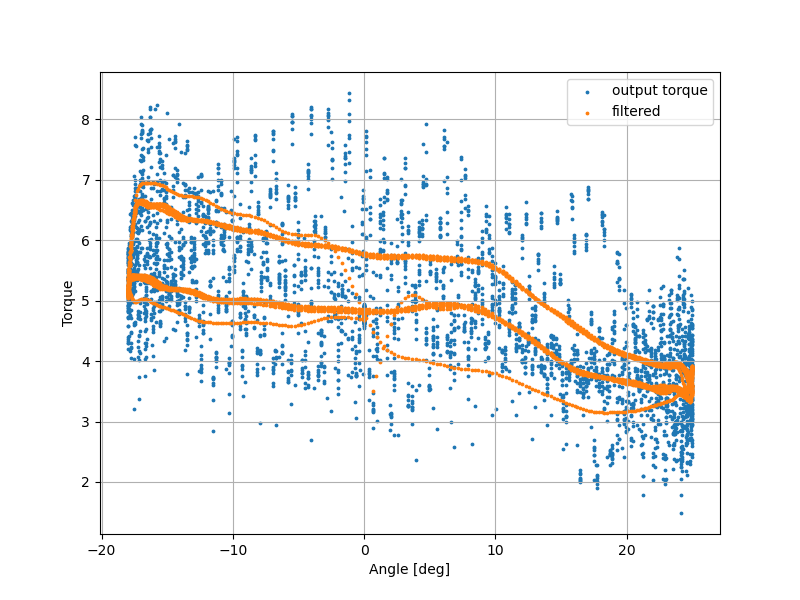
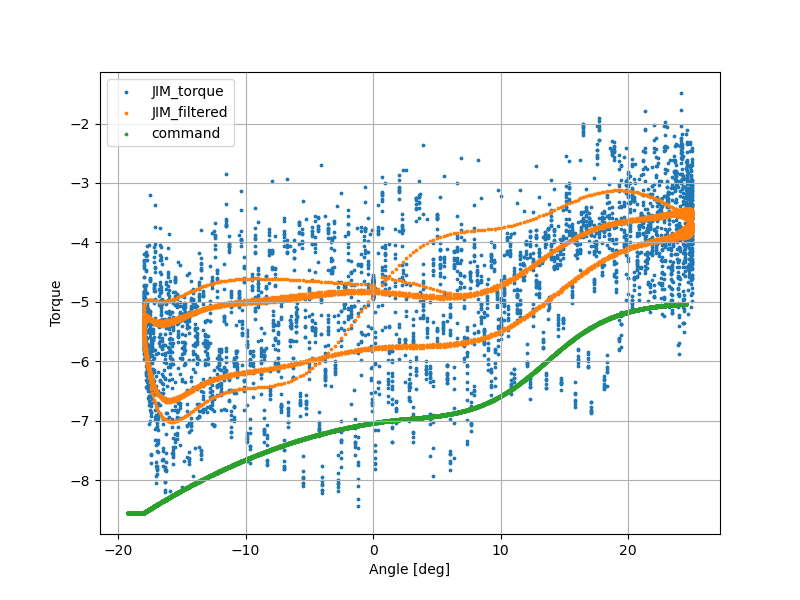
plotter update

diff --git a/plotter.py b/plotter.py
@@ -4,7 +4,9 @@ import scipy.io
 import pandas as pd
 import processor as proc
 import numpy as np
+import matplotlib as mpl
 import matplotlib.pyplot as plt
+mpl.rcParams['savefig.directory'] = 'I:\\My Drive\\Locomotor\\ExoBoot\\plots'
 
 def load_encoder_csv(file_path, adjust = False):
     with open(file_path, mode='r') as file:
@@ -35,15 +37,15 @@ def load_encoder_csv(file_path, adjust = False):
             return time, ankle_angle
 
 
-def load_mat(file_path, calibration_path=None, adjust=False, lpf=False, cutoff=5, fs=100, order=10):
+def load_mat(file_path, calibration_path=None, adjust=False, lpf=False, cutoff=2, fs=100, order=5):
     mat_data = scipy.io.loadmat(file_path)
     JIM_time = mat_data['output'][:,0]
     JIM_angle = - np.degrees(mat_data['output'][:,1])   # Fix JIM angle data
-    JIM_torque = mat_data['output'][:,2]
+    JIM_torque = - mat_data['output'][:,2]  # Fix JIM torque data
 
     if calibration_path:
         calibration_data = scipy.io.loadmat(calibration_path)
-        calibration_torque = calibration_data['output'][:,2]
+        calibration_torque = - calibration_data['output'][:,2]  
         if len(calibration_torque) == len(JIM_torque):
             JIM_torque -= calibration_torque
 
@@ -76,13 +78,15 @@ def load_cam():
     all_torque = np.array(all_torque)
 
     file_path_csv = "ExoBoot\\cam_torque_angle\\cam_torque_data.csv"
+
     if not os.path.exists(file_path_csv):
         os.makedirs(os.path.dirname(file_path_csv), exist_ok=True)
         data = pd.DataFrame({'Angle': all_angle, 'Torque': all_torque})
         data.to_csv(file_path_csv, index=False)
-    else:
-        print(f"The file {file_path_csv} already exists.")
-
+    # else:
+    #     print(f"The file {file_path_csv} already exists.")
+    return all_angle, all_torque
+    
 
 def plot_angle_data(encoder_time, encoder_angle, JIM_time = None, JIM_angle = None):
     plt.figure(figsize=(8, 6))
@@ -151,23 +155,28 @@ def plot_piecewise_fit():
     plt.legend()
     plt.show()
 
-csv_file = "ExoBoot/data/basic_controller_motor_3.csv"
-cal_file = "ExoBoot/data/basic_controller_motor_CAL_3.mat"
-mat_file = "ExoBoot/data/basic_controller_motor_EXO_3.mat"
 
-_, JIM_angle, JIM_torque =  load_mat(mat_file, cal_file, False, False)
-_, JIM_angle_filt, JIM_torque_filt =  load_mat(mat_file, cal_file, False, True)
-controller_data = pd.read_csv(csv_file)
+def plot_controller_data():
+    csv_file = "ExoBoot/data/basic_controller_motor_3.csv"
+    cal_file = "ExoBoot/data/basic_controller_motor_CAL_3.mat"
+    mat_file = "ExoBoot/data/basic_controller_motor_EXO_3.mat"
 
-if __name__ == '__main__':
+    _, JIM_angle, JIM_torque =  load_mat(mat_file, cal_file, False, False)
+    _, JIM_angle_filt, JIM_torque_filt =  load_mat(mat_file, cal_file, False, True)
+    controller_data = pd.read_csv(csv_file)
+
     plt.figure(figsize=(8, 6))
-    # plt.scatter(JIM_angle, JIM_torque, label='output torque', s=3)
-    # plt.scatter(JIM_angle_filt, JIM_torque_filt, label='filtered', s=3)
+    plt.scatter(JIM_angle, JIM_torque, label='JIM_torque', s=3)
+    plt.scatter(JIM_angle_filt, JIM_torque_filt, label='JIM_filtered', s=3)
     plt.scatter(controller_data["ankle_angle"], controller_data["commanded_torque"], label='command', s=3)
-    plt.scatter(controller_data["ankle_angle"], controller_data["passive_torque"], label='passive', s=3)
-    plt.scatter(controller_data["ankle_angle"], controller_data["commanded_torque"] + controller_data["passive_torque"], label='output', s=3)
+    # plt.scatter(controller_data["ankle_angle"], controller_data["passive_torque"], label='passive', s=3)
+    # plt.scatter(controller_data["ankle_angle"], controller_data["commanded_torque"] + controller_data["passive_torque"], label='output', s=3)
     plt.xlabel('Angle [deg]')
     plt.ylabel('Torque')
     plt.grid(True)
     plt.legend()
     plt.show()
+
+
+if __name__ == '__main__':
+    plot_controller_data()
